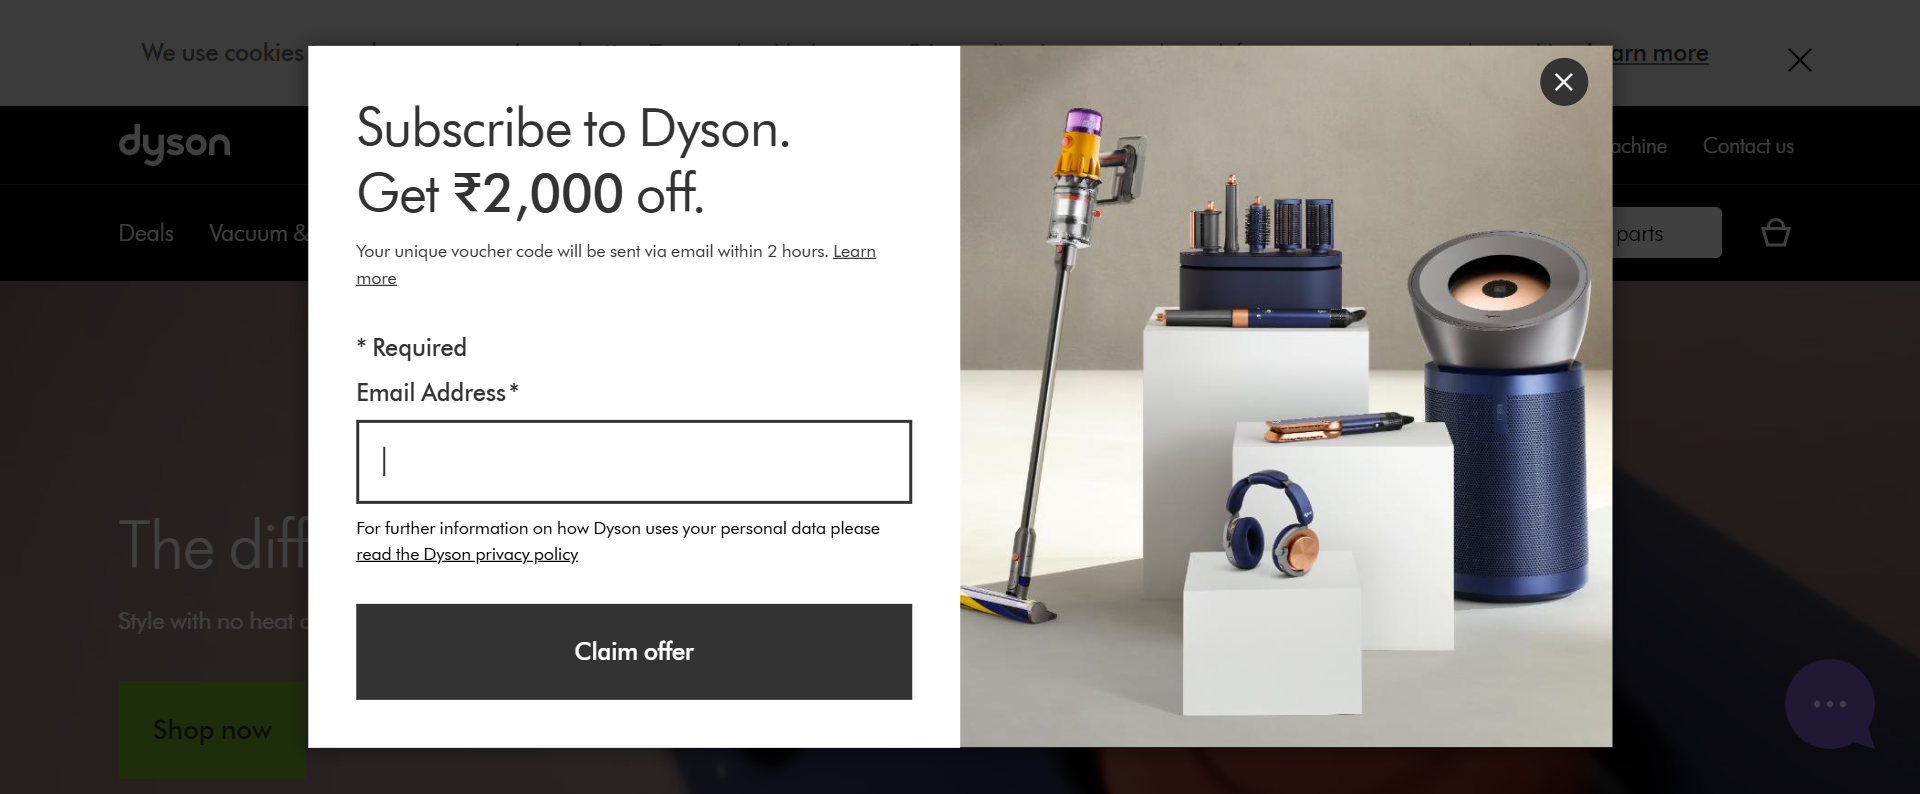
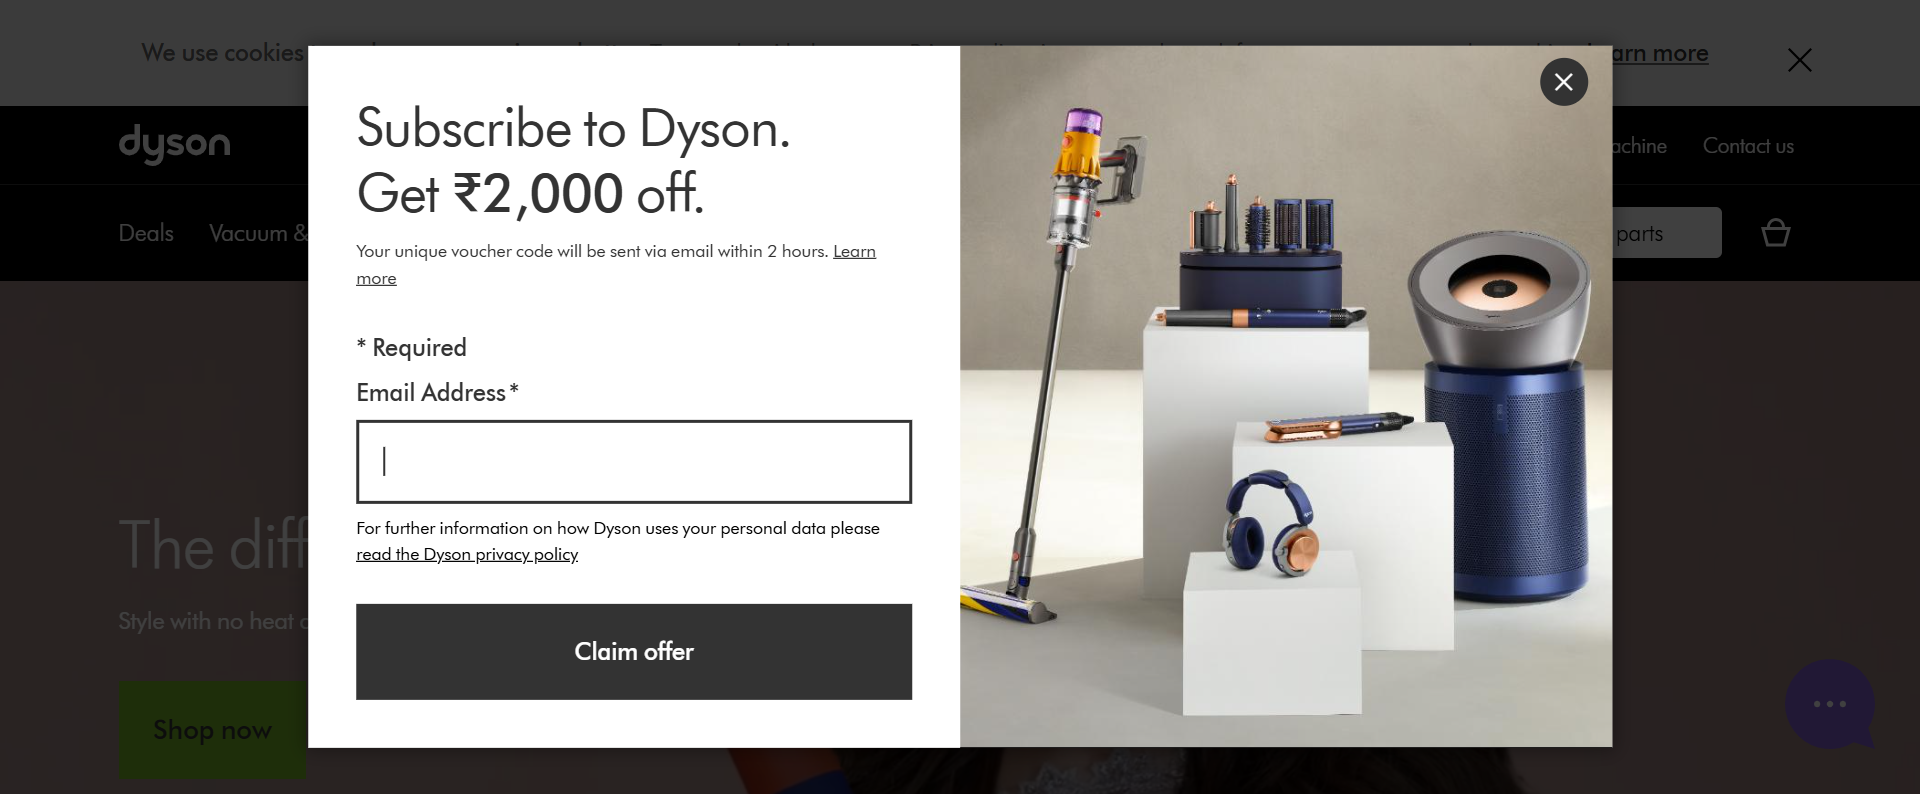
main Changes or happend

Changed region(s): [[0.5312, 0.6348, 1.0, 1.0], [0.3438, 0.937, 0.4375, 1.0], [0.4688, 0.9975, 0.5, 1.0]]

diff --git a/reports/index.html b/reports/index.html
@@ -35,7 +35,7 @@
 <a href="#"><span class="badge badge-primary">Dyson Automation Results</span></a>
 </li>
 <li class="m-r-10">
-<a href="#"><span class="badge badge-primary">Jul 14, 2026 05:57:51 PM</span></a>
+<a href="#"><span class="badge badge-primary">Jul 22, 2026 08:52:37 AM</span></a>
 </li>
 </ul>
 </div>
@@ -45,11 +45,6 @@
 <li class="nav-item dropdown" onclick="toggleView('test-view')">
 <a id="nav-test" class="dropdown-toggle" href="#">
 <span class="ico"><i class="fa fa-list"></i></span>
-</a>
-</li>
-<li class="nav-item dropdown" onclick="toggleView('exception-view')">
-<a id="nav-exception" class="dropdown-toggle" href="#">
-<span class="ico"><i class="fa fa-bug"></i></span>
 </a>
 </li>
 <li class="nav-item dropdown" onclick="toggleView('dashboard-view')">
@@ -72,7 +67,6 @@
 <a href="#" class="dropdown-toggle" data-toggle="dropdown"><i class="fa fa-exclamation-circle"></i></a>
 <ul id="status-toggle" class="dropdown-menu dropdown-md p-v-0">
 <a class="dropdown-item" status="pass" href="#"><span>Pass</span><span class="status success"></span></a>
-<a class="dropdown-item" status="fail" href="#"><span>Fail</span><span class="status danger"></span></a>
 <div class="dropdown-divider"></div>
 <a status="clear" class="dropdown-item" href="#"><span>Clear</span><span class="pull-right"><i class="fa fa-close"></i></span></a>
 </ul>
@@ -87,7 +81,7 @@
           <div class="test-detail">
             <p class="name">CheckOutProduct</p>
             <p class="text-sm">
-              <span>5:58:06 PM</span> / <span>00:00:00:001</span>
+              <span>8:52:46 AM</span> / <span>00:00:00:000</span>
               <span class="badge pass-bg log float-right">Pass</span>
             </p>
           </div>
@@ -96,9 +90,9 @@
 <div class="p-v-10">
 <div class="info">
 <h5 class="test-status text-pass">CheckOutProduct</h5>
-<span class='badge badge-success'>07.14.2026 5:58:06 PM</span>
-<span class='badge badge-danger'>07.14.2026 5:58:06 PM</span>
-<span class='badge badge-default'>00:00:00:001</span>
+<span class='badge badge-success'>07.22.2026 8:52:46 AM</span>
+<span class='badge badge-danger'>07.22.2026 8:52:46 AM</span>
+<span class='badge badge-default'>00:00:00:000</span>
 &middot; <span class='uri-anchor badge badge-default'>#test-id=1</span>
 <span title='Skip to the next failed step' class='badge badge-danger pointer float-right ne ml-1'><i class="fa fa-fast-forward"></i></span>
 <span title='Collapse all nodes' class='badge badge-default pointer float-right ct ml-1'><i class="fa fa-compress"></i></span>
@@ -112,9 +106,36 @@
           tag=""
           device="">
           <div class="test-detail">
+            <p class="name">LocationFinder</p>
+            <p class="text-sm">
+              <span>8:52:58 AM</span> / <span>00:00:00:000</span>
+              <span class="badge pass-bg log float-right">Pass</span>
+            </p>
+          </div>
+          <div class="test-contents d-none">
+<div class="detail-head">
+<div class="p-v-10">
+<div class="info">
+<h5 class="test-status text-pass">LocationFinder</h5>
+<span class='badge badge-success'>07.22.2026 8:52:58 AM</span>
+<span class='badge badge-danger'>07.22.2026 8:52:58 AM</span>
+<span class='badge badge-default'>00:00:00:000</span>
+&middot; <span class='uri-anchor badge badge-default'>#test-id=2</span>
+<span title='Skip to the next failed step' class='badge badge-danger pointer float-right ne ml-1'><i class="fa fa-fast-forward"></i></span>
+<span title='Collapse all nodes' class='badge badge-default pointer float-right ct ml-1'><i class="fa fa-compress"></i></span>
+<span title='Expand all nodes' class='badge badge-default pointer float-right et'><i class="fa fa-expand"></i></span>
+</div>
+</div>
+</div>          </div>
+        </li>
+        <li class="test-item"  status="pass" test-id="3"
+          author=""
+          tag=""
+          device="">
+          <div class="test-detail">
             <p class="name">CheckOutProduct</p>
             <p class="text-sm">
-              <span>5:58:21 PM</span> / <span>00:00:52:206</span>
+              <span>8:53:18 AM</span> / <span>00:01:18:305</span>
               <span class="badge pass-bg log float-right">Pass</span>
             </p>
           </div>
@@ -123,10 +144,10 @@
 <div class="p-v-10">
 <div class="info">
 <h5 class="test-status text-pass">CheckOutProduct</h5>
-<span class='badge badge-success'>07.14.2026 5:58:21 PM</span>
-<span class='badge badge-danger'>07.14.2026 5:59:13 PM</span>
-<span class='badge badge-default'>00:00:52:206</span>
-&middot; <span class='uri-anchor badge badge-default'>#test-id=2</span>
+<span class='badge badge-success'>07.22.2026 8:53:18 AM</span>
+<span class='badge badge-danger'>07.22.2026 8:54:36 AM</span>
+<span class='badge badge-default'>00:01:18:305</span>
+&middot; <span class='uri-anchor badge badge-default'>#test-id=3</span>
 <span title='Skip to the next failed step' class='badge badge-danger pointer float-right ne ml-1'><i class="fa fa-fast-forward"></i></span>
 <span title='Collapse all nodes' class='badge badge-default pointer float-right ct ml-1'><i class="fa fa-compress"></i></span>
 <span title='Expand all nodes' class='badge badge-default pointer float-right et'><i class="fa fa-expand"></i></span>
@@ -138,116 +159,16 @@
   <tbody>
       <tr class="event-row">
         <td><span class="badge log pass-bg">Pass</span></td>
-        <td>5:59:13 PM</td>
+        <td>8:54:26 AM</td>
         <td>
           Execution pass
         </td>
       </tr>
-  </tbody>
-</table>
-</div>
-          </div>
-        </li>
-        <li class="test-item"  status="fail" test-id="3"
-          author=""
-          tag=""
-          device="">
-          <div class="test-detail">
-            <p class="name">LocationFinder</p>
-            <p class="text-sm">
-              <span>5:59:26 PM</span> / <span>00:00:03:381</span>
-              <span class="badge fail-bg log float-right">Fail</span>
-            </p>
-          </div>
-          <div class="test-contents d-none">
-<div class="detail-head">
-<div class="p-v-10">
-<div class="info">
-<h5 class="test-status text-fail">LocationFinder</h5>
-<span class='badge badge-success'>07.14.2026 5:59:26 PM</span>
-<span class='badge badge-danger'>07.14.2026 5:59:29 PM</span>
-<span class='badge badge-default'>00:00:03:381</span>
-&middot; <span class='uri-anchor badge badge-default'>#test-id=3</span>
-<span title='Skip to the next failed step' class='badge badge-danger pointer float-right ne ml-1'><i class="fa fa-fast-forward"></i></span>
-<span title='Collapse all nodes' class='badge badge-default pointer float-right ct ml-1'><i class="fa fa-compress"></i></span>
-<span title='Expand all nodes' class='badge badge-default pointer float-right et'><i class="fa fa-expand"></i></span>
-</div>
-</div>
-</div>    <div class="row mb-3"><div class="col-md-3">
-    
-
-<img data-featherlight='C:\Users\pkama\DysonDemoProject//reports//LocationFinder.png' src="C:\Users\pkama\DysonDemoProject//reports//LocationFinder.png">
-  
-    <div class="title">LocationFinder</div>
-
-    </div></div>
-<div class="detail-body mt-4">
-<table class="table table-sm">
-  <thead><tr><th class="status-col">Status</th><th class="timestamp-col">Timestamp</th><th class="details-col">Details</th></tr></thead>
-  <tbody>
       <tr class="event-row">
-        <td><span class="badge log fail-bg">Fail</span></td>
-        <td>5:59:28 PM</td>
+        <td><span class="badge log pass-bg">Pass</span></td>
+        <td>8:54:36 AM</td>
         <td>
-          <textarea readonly class="code-block">org.openqa.selenium.ElementClickInterceptedException: element click intercepted: Element <button aria-label="Search products and parts" class="header__search__input-open" data-toggle-content="" data-toggle-content-opens="search-popover"></button> is not clickable at point (1025, 155). Other element would receive the click: <img src="https://dyson-h.assetsadobe2.com/is/image/content/dam/dyson/india/2024/cross-cat-range-in.jpg?$responsive$&amp;cropPathE=desktop&amp;fit=stretch,1&amp;wid=869" alt="https://dyson-h.assetsadobe2.com/is/image/content/dam/dyson/india/2024/cross-cat-range-in.jpg" itemprop="image">
-  (Session info: chrome=150.0.7871.114)
-Build info: version: '4.45.0', revision: 'cd6a3cd cd6a3cdfca6970f62e5bc8344109d0fe0e2af05e'
-System info: os.name: 'Windows 11', os.arch: 'amd64', os.version: '10.0', java.version: '21.0.11'
-Driver info: org.openqa.selenium.chrome.ChromeDriver
-Command: [5fc34143c2da7e62775b950fcd9addab, clickElement {id=f.D357112AB61B0D020BAFB1AE694D4EDF.d.4F245BDAC3A2775CB6F26CE5AEFFBF57.e.78}]
-Capabilities {acceptInsecureCerts: false, browserName: chrome, browserVersion: 150.0.7871.114, chrome: {chromedriverVersion: 150.0.7871.115 (25f5b661e5b..., userDataDir: C:\Users\pkama\AppData\Loca...}, fedcm:accounts: true, goog:chromeOptions: {debuggerAddress: localhost:52923}, goog:processID: 20184, networkConnectionEnabled: false, pageLoadStrategy: normal, platformName: windows, proxy: Proxy(), se:cdp: ws://localhost:52923/devtoo..., se:cdpVersion: 150.0.7871.114, setWindowRect: true, strictFileInteractability: false, timeouts: {implicit: 0, pageLoad: 300000, script: 30000}, unhandledPromptBehavior: dismiss and notify, webauthn:extension:credBlob: true, webauthn:extension:largeBlob: true, webauthn:extension:minPinLength: true, webauthn:extension:prf: true, webauthn:virtualAuthenticators: true}
-Element: [[ChromeDriver: chrome on windows (5fc34143c2da7e62775b950fcd9addab)] -> xpath: //button[@class='header__search__input-open']]
-Session ID: 5fc34143c2da7e62775b950fcd9addab
-	at org.openqa.selenium.remote.ErrorCodec.decode(ErrorCodec.java:169)
-	at org.openqa.selenium.remote.codec.w3c.W3CHttpResponseCodec.decode(W3CHttpResponseCodec.java:143)
-	at org.openqa.selenium.remote.codec.w3c.W3CHttpResponseCodec.decode(W3CHttpResponseCodec.java:50)
-	at org.openqa.selenium.remote.HttpCommandExecutor.execute(HttpCommandExecutor.java:196)
-	at org.openqa.selenium.remote.service.DriverCommandExecutor.invokeExecute(DriverCommandExecutor.java:217)
-	at org.openqa.selenium.remote.service.DriverCommandExecutor.execute(DriverCommandExecutor.java:175)
-	at org.openqa.selenium.remote.RemoteWebDriver.execute(RemoteWebDriver.java:575)
-	at org.openqa.selenium.remote.RemoteWebElement.execute(RemoteWebElement.java:225)
-	at org.openqa.selenium.remote.RemoteWebElement.click(RemoteWebElement.java:79)
-	at java.base/jdk.internal.reflect.DirectMethodHandleAccessor.invoke(DirectMethodHandleAccessor.java:103)
-	at java.base/java.lang.reflect.Method.invoke(Method.java:580)
-	at org.openqa.selenium.support.pagefactory.internal.LocatingElementHandler.invoke(LocatingElementHandler.java:51)
-	at jdk.proxy2/jdk.proxy2.$Proxy13.click(Unknown Source)
-	at DysonSearchToAddToCart.SearchPage.SearchProduct(SearchPage.java:32)
-	at DysonTest.DysonSearchProduct.LocationFinder(DysonSearchProduct.java:17)
-	at java.base/jdk.internal.reflect.DirectMethodHandleAccessor.invoke(DirectMethodHandleAccessor.java:103)
-	at java.base/java.lang.reflect.Method.invoke(Method.java:580)
-	at org.testng.internal.invokers.MethodInvocationHelper.invokeMethod(MethodInvocationHelper.java:141)
-	at org.testng.internal.invokers.TestInvoker.invokeMethod(TestInvoker.java:687)
-	at org.testng.internal.invokers.TestInvoker.invokeTestMethod(TestInvoker.java:230)
-	at org.testng.internal.invokers.MethodRunner.runInSequence(MethodRunner.java:63)
-	at org.testng.internal.invokers.TestInvoker$MethodInvocationAgent.invoke(TestInvoker.java:995)
-	at org.testng.internal.invokers.TestInvoker.invokeTestMethods(TestInvoker.java:203)
-	at org.testng.internal.invokers.TestMethodWorker.invokeTestMethods(TestMethodWorker.java:154)
-	at org.testng.internal.invokers.TestMethodWorker.run(TestMethodWorker.java:134)
-	at java.base/java.util.concurrent.Executors$RunnableAdapter.call(Executors.java:572)
-	at java.base/java.util.concurrent.FutureTask.run$$$capture(FutureTask.java:317)
-	at java.base/java.util.concurrent.FutureTask.run(FutureTask.java)
-	at --- Async.Stack.Trace --- (captured by IntelliJ IDEA debugger)
-	at java.base/java.util.concurrent.FutureTask.<init>(FutureTask.java:151)
-	at org.testng.internal.thread.graph.TestNGFutureTask.<init>(TestNGFutureTask.java:15)
-	at org.testng.internal.thread.graph.GraphOrchestrator.runNodes(GraphOrchestrator.java:58)
-	at org.testng.internal.thread.graph.GraphOrchestrator.run(GraphOrchestrator.java:46)
-	at org.testng.TestTaskExecutor.execute(TestTaskExecutor.java:69)
-	at org.testng.TestRunner.privateRun(TestRunner.java:722)
-	at org.testng.TestRunner.run(TestRunner.java:616)
-	at org.testng.SuiteRunner.runTest(SuiteRunner.java:421)
-	at org.testng.SuiteRunner.runSequentially(SuiteRunner.java:413)
-	at org.testng.SuiteRunner.privateRun(SuiteRunner.java:373)
-	at org.testng.SuiteRunner.run(SuiteRunner.java:312)
-	at org.testng.SuiteRunnerWorker.runSuite(SuiteRunnerWorker.java:52)
-	at org.testng.SuiteRunnerWorker.run(SuiteRunnerWorker.java:95)
-	at org.testng.TestNG.runSuitesSequentially(TestNG.java:1274)
-	at org.testng.TestNG.runSuitesLocally(TestNG.java:1208)
-	at org.testng.TestNG.runSuites(TestNG.java:1112)
-	at org.testng.TestNG.run(TestNG.java:1079)
-	at com.intellij.rt.testng.IDEARemoteTestNG.run(IDEARemoteTestNG.java:65)
-	at com.intellij.rt.testng.RemoteTestNGStarter.main(RemoteTestNGStarter.java:105)
-</textarea>
-          
+          Execution pass
         </td>
       </tr>
   </tbody>
@@ -264,79 +185,30 @@ Session ID: 5fc34143c2da7e62775b950fcd9addab
 </div>
 <div class="test-content-detail"><div class="detail-body"></div></div>
 </div></div>
-<div class="test-wrapper row view exception-view attributes-view">
-<div class="test-list">
-<div class="test-list-tools">
-<ul class="tools pull-left"><li><a href=""><span class="font-size-14">Exception</span></a></li></ul>
-<ul class="tools text-right"><li><a href="#"><span class="badge badge-primary">1</span></a></li></ul>
-</div>
-<div class="test-list-wrapper scrollable">
-<ul class="test-list-item">
-<li class="test-item">
-<div class="test-detail">
-<span class="meta">
-<span class='badge log badge-danger'>1</span>
-</span>
-<p class="name">org.openqa.selenium.ElementClickInterceptedException</p>
-<p class="duration text-sm">1 tests</p>
-</div>
-<div class="test-contents d-none">
-<div class="info">
-<h4>org.openqa.selenium.ElementClickInterceptedException</h4>
-<span status="fail" class='badge log badge-danger'>1 failed</span>
-</div>
-<table class='table table-sm mt-4'>
-<thead>
-<tr>
-<th class="status-col">Status</th>
-<th class="timestamp-col">Timestamp</th>
-<th>TestName</th>
-</tr>
-</thead>
-<tbody>
-<tr class="tag-test-status" status="fail">
-<td><span class="badge log fail-bg">Fail</span></td>
-<td>17:59:26 PM</td>
-<td>
-<a href="#" class="linked" test-id='3' id='3'>LocationFinder</a>
-</td>
-</tr>
-</tbody>
-</table>
-</div>
-</li>
-</ul>
-</div>
-</div>
-<div class="test-content scrollable">
-<div class="test-content-detail">
-<div class="detail-body"></div>
-</div>
-</div>
-</div><div class="container-fluid p-4 view dashboard-view">
+<div class="container-fluid p-4 view dashboard-view">
 <div class="row">
 <div class="col-md-3">
 <div class="card"><div class="card-body">
 <p class="m-b-0">Started</p>
-<h3>Jul 14, 2026 05:57:51 PM</h3>
+<h3>Jul 22, 2026 08:52:37 AM</h3>
 </div></div>
 </div>
 <div class="col-md-3">
 <div class="card"><div class="card-body">
 <p class="m-b-0">Ended</p>
-<h3>Jul 14, 2026 05:59:30 PM</h3>
+<h3>Jul 22, 2026 08:54:38 AM</h3>
 </div></div>
 </div>
 <div class="col-md-3">
 <div class="card"><div class="card-body">
 <p class="m-b-0 text-pass">Tests Passed</p>
-<h3>2</h3>
+<h3>3</h3>
 </div></div>
 </div>
 <div class="col-md-3">
 <div class="card"><div class="card-body">
 <p class="m-b-0 text-fail">Tests Failed</p>
-<h3>1</h3>
+<h3>0</h3>
 </div></div>
 </div>
 </div>
@@ -352,12 +224,12 @@ Session ID: 5fc34143c2da7e62775b950fcd9addab
 </div>
 </div>
 <div class="card-footer">
-<div><small data-tooltip='66%'>
-<b>2</b> tests passed
+<div><small data-tooltip='100%'>
+<b>3</b> tests passed
 </small>
 </div>
 <div>
-<small data-tooltip='33%'><b>1</b> tests failed,
+<small data-tooltip='0%'><b>0</b> tests failed,
 <b>0</b> skipped, <b data-tooltip='0%'>0</b> others
 </small>
 </div>
@@ -375,9 +247,9 @@ Session ID: 5fc34143c2da7e62775b950fcd9addab
 </div>
 </div>
 <div class="card-footer">
-<div><small data-tooltip='50%'><b>1</b> events passed</small></div>
+<div><small data-tooltip='100%'><b>2</b> events passed</small></div>
 <div>
-<small data-tooltip='50%'><b>1</b> events failed,
+<small data-tooltip='0%'><b>0</b> events failed,
 <b data-tooltip='%'>0</b> others
 </small>
 </div>
@@ -394,7 +266,7 @@ Session ID: 5fc34143c2da7e62775b950fcd9addab
 </div></div>
 <script>
 var timeline = {
-"CheckOutProduct":0.001,"CheckOutProduct":52.206,"LocationFinder":3.381
+"CheckOutProduct":0,"LocationFinder":0,"CheckOutProduct":78.305
 };
 </script>
 <div class="row">
@@ -417,8 +289,8 @@ var timeline = {
 <script>
 var statusGroup = {
 parentCount: 5,
-passParent: 2,
-failParent: 1,
+passParent: 3,
+failParent: 0,
 warningParent: 0,
 skipParent: 0,
 childCount: 5,
@@ -434,8 +306,8 @@ warningGrandChild: 0,
 skipGrandChild: 0,
 infoGrandChild: 0,
 eventsCount: 5,
-passEvents: 1,
-failEvents: 1,
+passEvents: 2,
+failEvents: 0,
 warningEvents: 0,
 skipEvents: 0,
 infoEvents: 0

diff --git a/src/test/java/DysonTest/CheckOutProductTest.java b/src/test/java/DysonTest/CheckOutProductTest.java
@@ -21,7 +21,7 @@ public class CheckOutProductTest extends BaseTest {
 
     String ProductName = "Dyson Airstrait™ straightener (Ceramic pink/Rose gold)";
 
-    @Test(retryAnalyzer = RetryTest.class)
+    @Test()
     public void CheckOutProduct() throws IOException, InterruptedException {
 
 